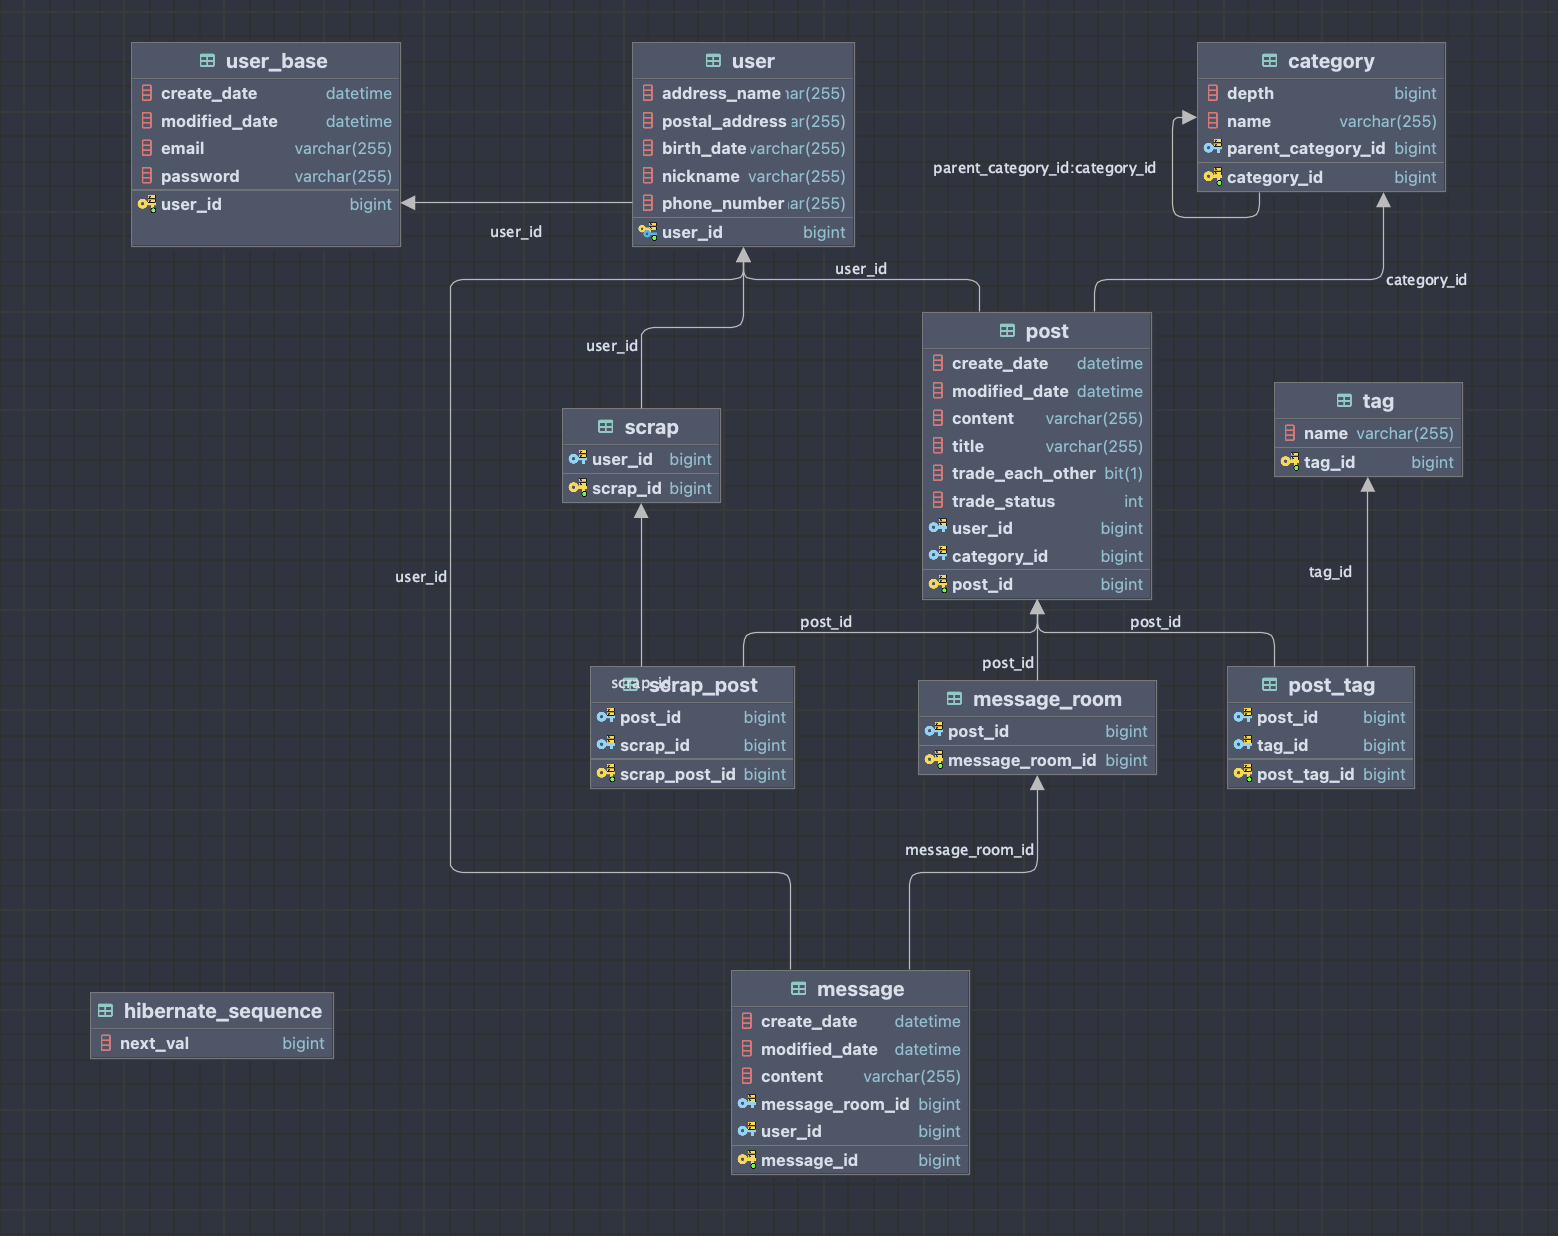
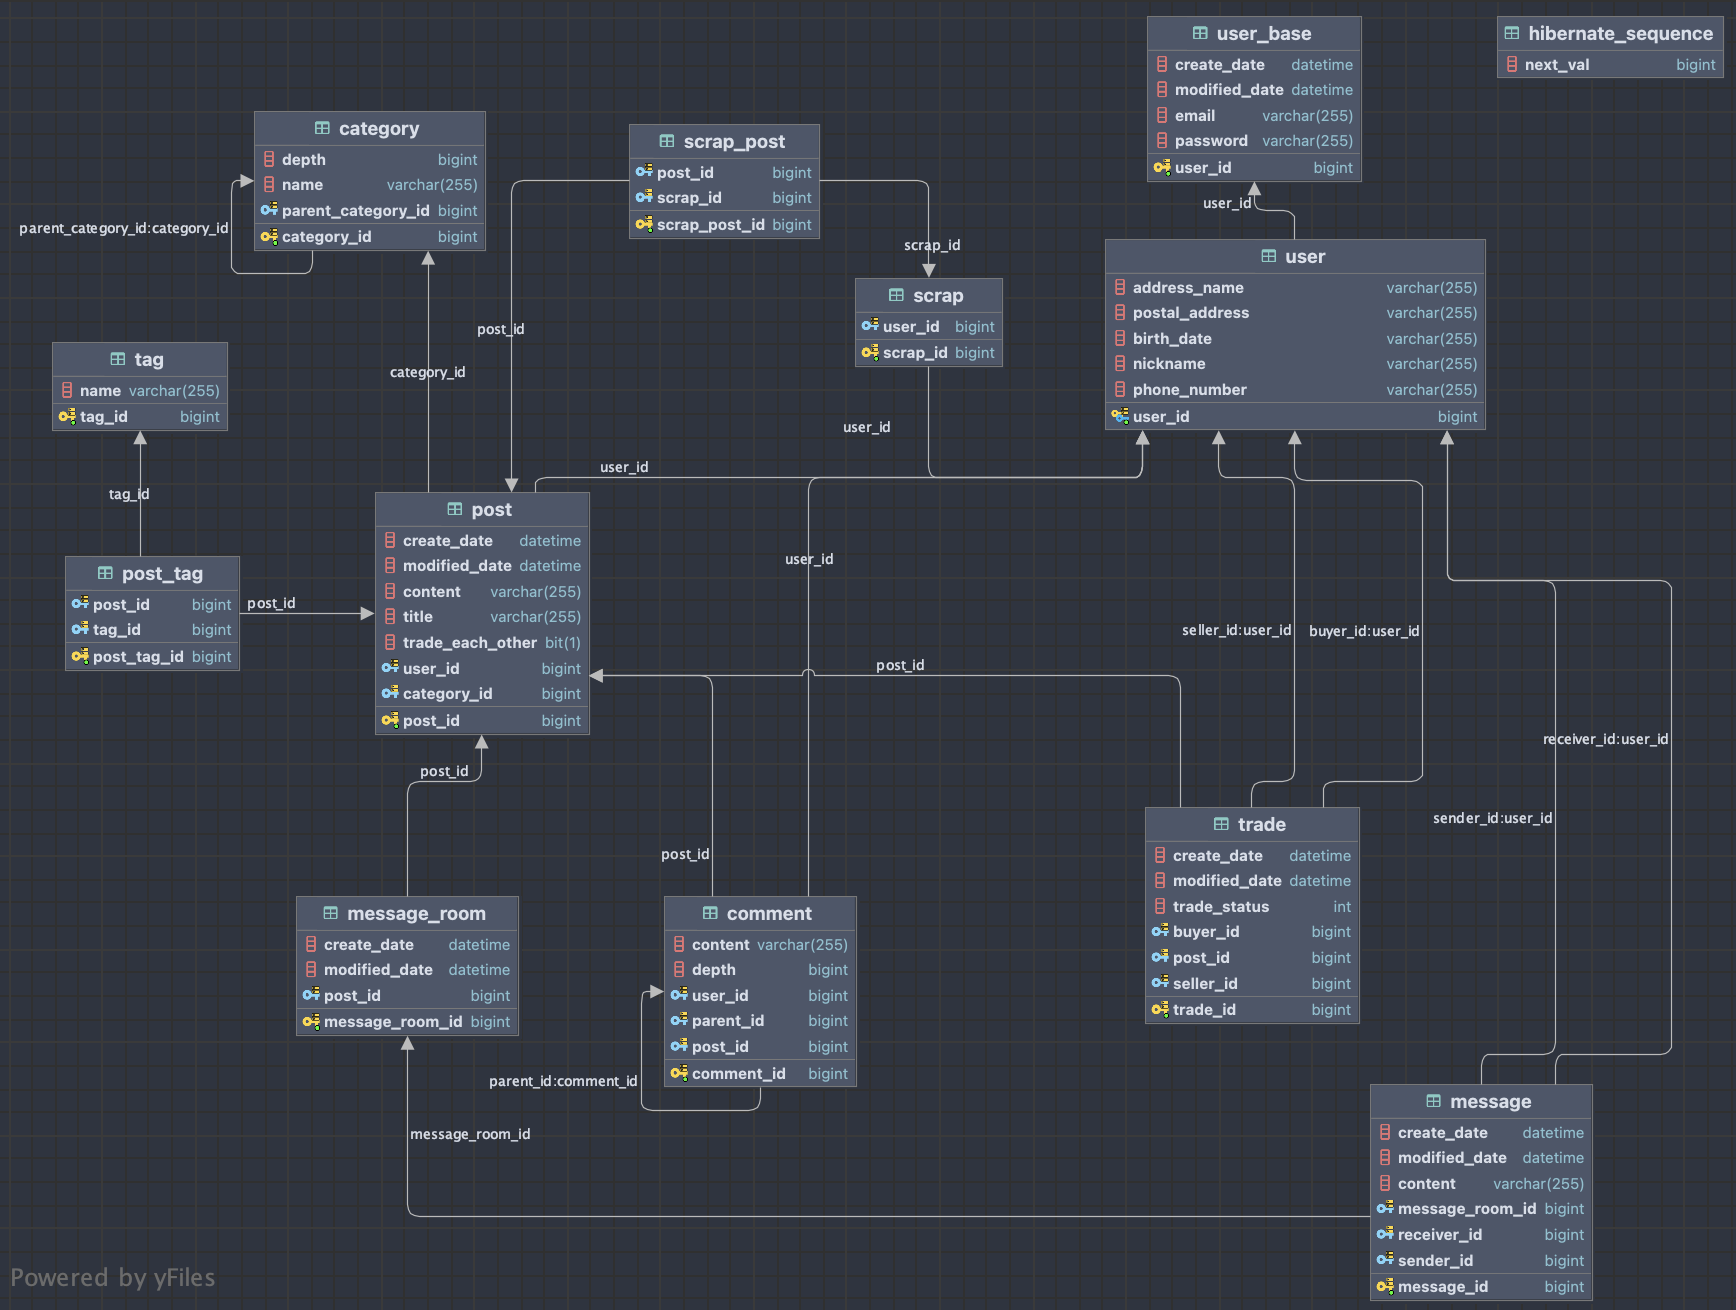
[ADD] 도메인 & 프로젝트 구조 업데이트

diff --git a/src/main/java/f3f/dev1/domain/post/model/Post.java b/src/main/java/f3f/dev1/domain/post/model/Post.java
@@ -1,10 +1,11 @@
 package f3f.dev1.domain.post.model;
 
 import f3f.dev1.domain.category.model.Category;
+import f3f.dev1.domain.comment.model.Comment;
 import f3f.dev1.domain.message.model.MessageRoom;
 import f3f.dev1.domain.model.BaseTimeEntity;
-import f3f.dev1.domain.model.TradeStatus;
 import f3f.dev1.domain.tag.model.PostTag;
+import f3f.dev1.domain.trade.model.Trade;
 import f3f.dev1.domain.user.model.User;
 import lombok.Builder;
 import lombok.Getter;
@@ -27,9 +28,9 @@ public class Post extends BaseTimeEntity {
 
     private String content;
 
-    private TradeStatus tradeStatus;
-
     private Boolean tradeEachOther;
+    @OneToOne(mappedBy = "post")
+    private Trade trade;
 
     @ManyToOne
     @JoinColumn(name = "category_id")
@@ -48,12 +49,15 @@ public class Post extends BaseTimeEntity {
     @OneToMany(mappedBy = "post", fetch = FetchType.LAZY)
     private List<ScrapPost> scrapPosts = new ArrayList<>();
 
+    @OneToMany(mappedBy = "post", fetch = FetchType.LAZY)
+    private List<Comment> comments = new ArrayList<>();
+
     @Builder
-    public Post(Long id, String title, String content, TradeStatus tradeStatus, Boolean tradeEachOther, Category category, User author) {
+    public Post(Long id, String title, String content, Trade trade, Boolean tradeEachOther, Category category, User author) {
         this.id = id;
         this.title = title;
         this.content = content;
-        this.tradeStatus = tradeStatus;
+        this.trade = trade;
         this.tradeEachOther = tradeEachOther;
         this.category = category;
         this.author = author;

diff --git a/src/main/java/f3f/dev1/domain/user/model/User.java b/src/main/java/f3f/dev1/domain/user/model/User.java
@@ -1,10 +1,13 @@
 package f3f.dev1.domain.user.model;
 
+import f3f.dev1.domain.comment.model.Comment;
 import f3f.dev1.domain.message.model.Message;
 import f3f.dev1.domain.model.Address;
 import f3f.dev1.domain.model.UserBase;
 import f3f.dev1.domain.post.model.Post;
 import f3f.dev1.domain.scrap.model.Scrap;
+import f3f.dev1.domain.trade.model.Trade;
+
 import lombok.Builder;
 import lombok.Getter;
 import lombok.NoArgsConstructor;
@@ -30,11 +33,23 @@ public class User extends UserBase {
     @OneToMany(mappedBy = "author", fetch = FetchType.LAZY)
     private List<Post> posts = new ArrayList<>();
 
+    @OneToMany(mappedBy = "author", fetch = FetchType.LAZY)
+    private List<Comment> comments = new ArrayList<>();
+
     @OneToOne(mappedBy = "user")
     private Scrap scrap;
 
     @OneToMany(mappedBy = "sender", fetch = FetchType.LAZY)
     private List<Message> sendMessages = new ArrayList<>();
+
+    @OneToMany(mappedBy = "receiver", fetch = FetchType.LAZY)
+    private List<Message> receivedMessages = new ArrayList<>();
+
+    @OneToMany(mappedBy = "buyer", fetch = FetchType.LAZY)
+    private List<Trade> buyingTrades = new ArrayList<>();
+
+    @OneToMany(mappedBy = "seller", fetch = FetchType.LAZY)
+    private List<Trade> sellingTrades = new ArrayList<>();
 
     @Builder
     public User(Long id, String email, String password, Address address, String birthDate, String phoneNumber, String nickname) {

diff --git a/src/main/java/f3f/dev1/domain/comment/model/Comment.java b/src/main/java/f3f/dev1/domain/comment/model/Comment.java
@@ -1,0 +1,50 @@
+package f3f.dev1.domain.comment.model;
+
+import f3f.dev1.domain.post.model.Post;
+import f3f.dev1.domain.user.model.User;
+import lombok.Builder;
+import lombok.Getter;
+import lombok.NoArgsConstructor;
+
+import javax.persistence.*;
+import java.util.ArrayList;
+import java.util.List;
+
+@Entity
+@Getter
+@NoArgsConstructor
+public class Comment {
+    @Id
+    @GeneratedValue
+    @Column(name = "comment_id")
+    private Long id;
+
+    @ManyToOne
+    @JoinColumn(name = "post_id")
+    private Post post;
+
+    private String content;
+
+    private Long depth;
+
+    @ManyToOne
+    @JoinColumn(name = "user_id")
+    private User author;
+
+    @OneToMany(mappedBy = "parent")
+    private List<Comment> childs = new ArrayList<>();
+
+    @ManyToOne
+    @JoinColumn(name = "parent_id")
+    private Comment parent;
+
+    @Builder
+    public Comment(Long id, Post post, String content, Long depth, User author, Comment parent) {
+        this.id = id;
+        this.post = post;
+        this.content = content;
+        this.depth = depth;
+        this.author = author;
+        this.parent = parent;
+    }
+}

diff --git a/src/main/java/f3f/dev1/domain/trade/model/Trade.java b/src/main/java/f3f/dev1/domain/trade/model/Trade.java
@@ -1,0 +1,44 @@
+package f3f.dev1.domain.trade.model;
+
+import f3f.dev1.domain.model.BaseTimeEntity;
+import f3f.dev1.domain.model.TradeStatus;
+import f3f.dev1.domain.post.model.Post;
+import f3f.dev1.domain.user.model.User;
+import lombok.Builder;
+import lombok.Getter;
+import lombok.NoArgsConstructor;
+
+import javax.persistence.*;
+
+@Getter
+@Entity
+@NoArgsConstructor
+public class Trade extends BaseTimeEntity {
+    @Id
+    @GeneratedValue
+    @Column(name = "trade_id")
+    private Long id;
+
+    @OneToOne
+    @JoinColumn(name = "post_id")
+    private Post post;
+
+    @ManyToOne
+    @JoinColumn(name = "seller_id")
+    private User seller;
+
+    @ManyToOne
+    @JoinColumn(name = "buyer_id")
+    private User buyer;
+
+    private TradeStatus tradeStatus;
+
+    @Builder
+    public Trade(Long id, Post post, User seller, User buyer, TradeStatus tradeStatus) {
+        this.id = id;
+        this.post = post;
+        this.seller = seller;
+        this.buyer = buyer;
+        this.tradeStatus = tradeStatus;
+    }
+}

diff --git a/src/main/java/f3f/dev1/domain/category/model/Category.java b/src/main/java/f3f/dev1/domain/category/model/Category.java
@@ -1,6 +1,7 @@
 package f3f.dev1.domain.category.model;
 
 import f3f.dev1.domain.post.model.Post;
+import lombok.Builder;
 import lombok.Getter;
 import lombok.NoArgsConstructor;
 
@@ -27,4 +28,12 @@ public class Category {
     private List<Category> child = new ArrayList<>();
     @OneToMany(mappedBy = "category", fetch = FetchType.LAZY)
     private List<Post> posts = new ArrayList<>();
+
+    @Builder
+    public Category(Long id, String name, Long depth, Category parent) {
+        this.id = id;
+        this.name = name;
+        this.depth = depth;
+        this.parent = parent;
+    }
 }

diff --git a/src/main/java/f3f/dev1/domain/scrap/model/Scrap.java b/src/main/java/f3f/dev1/domain/scrap/model/Scrap.java
@@ -1,6 +1,7 @@
 package f3f.dev1.domain.scrap.model;
 import f3f.dev1.domain.post.model.ScrapPost;
 import f3f.dev1.domain.user.model.User;
+import lombok.Builder;
 import lombok.Getter;
 import lombok.NoArgsConstructor;
 
@@ -23,4 +24,10 @@ public class Scrap {
 
     @OneToMany(mappedBy = "scrap", fetch = FetchType.LAZY)
     private List<ScrapPost> scrapPosts = new ArrayList<>();
+
+    @Builder
+    public Scrap(Long id, User user) {
+        this.id = id;
+        this.user = user;
+    }
 }

diff --git a/src/main/java/f3f/dev1/domain/message/model/Message.java b/src/main/java/f3f/dev1/domain/message/model/Message.java
@@ -20,12 +20,17 @@ public class Message extends BaseTimeEntity {
 
     private String content;
     @ManyToOne
-    @JoinColumn(name = "user_id")
+    @JoinColumn(name = "sender_id")
     private User sender;
+
+    @ManyToOne
+    @JoinColumn(name = "receiver_id")
+    private User receiver;
 
     @ManyToOne
     @JoinColumn(name = "messageRoom_id")
     private MessageRoom messageRoom;
+
 
     @Builder
     public Message(Long id, String content, User sender, MessageRoom messageRoom) {

diff --git a/src/main/java/f3f/dev1/domain/tag/model/Tag.java b/src/main/java/f3f/dev1/domain/tag/model/Tag.java
@@ -1,4 +1,5 @@
 package f3f.dev1.domain.tag.model;
+import lombok.Builder;
 import lombok.Getter;
 import lombok.NoArgsConstructor;
 
@@ -19,4 +20,10 @@ public class Tag {
 
     @OneToMany(mappedBy = "tag", fetch = FetchType.LAZY)
     private List<PostTag> postTags = new ArrayList<>();
+
+    @Builder
+    public Tag(Long id, String name) {
+        this.id = id;
+        this.name = name;
+    }
 }

diff --git a/src/main/java/f3f/dev1/domain/message/model/MessageRoom.java b/src/main/java/f3f/dev1/domain/message/model/MessageRoom.java
@@ -1,5 +1,6 @@
 package f3f.dev1.domain.message.model;
 
+import f3f.dev1.domain.model.BaseTimeEntity;
 import f3f.dev1.domain.post.model.Post;
 import lombok.Getter;
 import lombok.NoArgsConstructor;
@@ -11,7 +12,7 @@ import java.util.List;
 @Getter
 @Entity
 @NoArgsConstructor
-public class MessageRoom {
+public class MessageRoom extends BaseTimeEntity {
 
     @Id
     @GeneratedValue

diff --git a/src/main/java/f3f/dev1/domain/category/application/TempApplication.java b/src/main/java/f3f/dev1/domain/category/application/TempApplication.java
@@ -1,0 +1,4 @@
+package f3f.dev1.domain.category.application;
+
+public class TempApplication {
+}

diff --git a/src/main/java/f3f/dev1/domain/comment/application/TempApplication.java b/src/main/java/f3f/dev1/domain/comment/application/TempApplication.java
@@ -1,0 +1,4 @@
+package f3f.dev1.domain.comment.application;
+
+public class TempApplication {
+}

diff --git a/src/main/java/f3f/dev1/domain/message/application/TempApplication.java b/src/main/java/f3f/dev1/domain/message/application/TempApplication.java
@@ -1,0 +1,4 @@
+package f3f.dev1.domain.message.application;
+
+public class TempApplication {
+}
